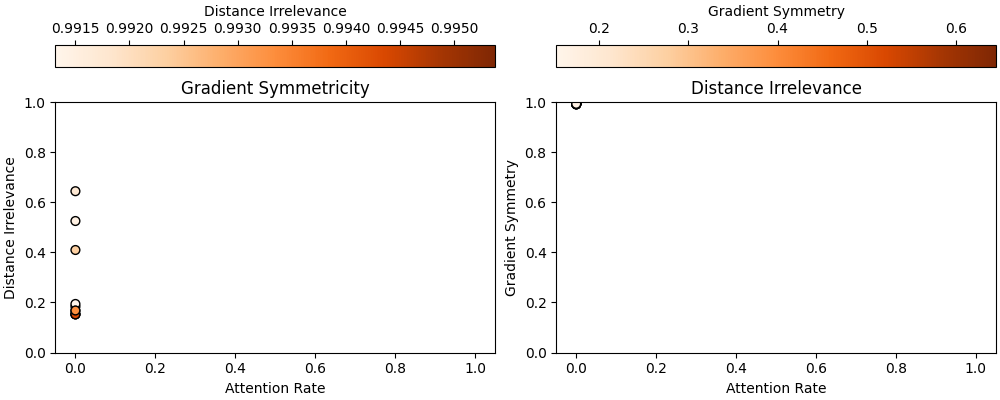
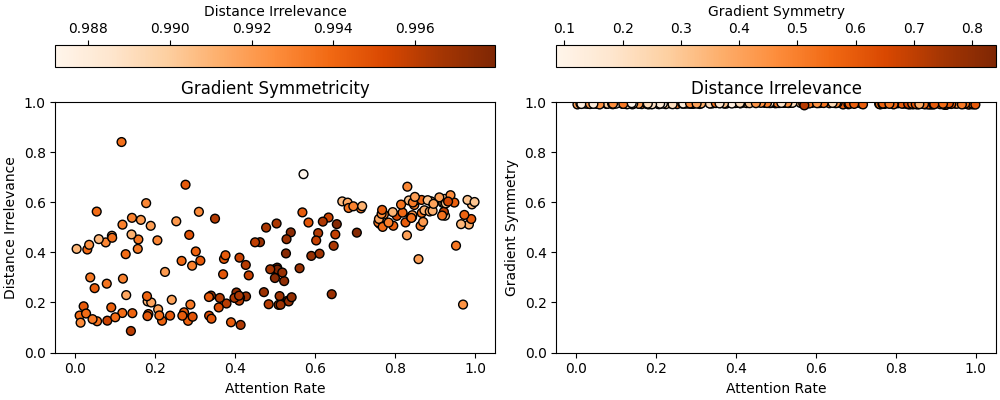
varying attention rate test.

diff --git a/analysis/plot_signal_spectrum.py b/analysis/plot_signal_spectrum.py
@@ -164,84 +164,84 @@ def plot_spectrum(model_type, embedding_type, data_path, save_path):
     plt.show()
     return True
 
-# def plot_spectrum(embedding, data_path, save_path):
+def final_embedding_spectrum(embedding, save_path, circle_freqs=None):
 
-#     spectrums = np.fft.fft(embedding, axis=0)
-#     signals = np.linalg.norm(spectrums, axis=1)
-#     sorted_freq = np.argsort(signals)[::-1]
-#     threshold = np.mean(signals) * 2 
-#     num_circles = (signals > threshold).sum() // 2
-#     cur_freqs = [min(sorted_freq[i * 2], sorted_freq[i * 2 + 1]) for i in range(num_circles)]
+    spectrums = np.fft.fft(embedding, axis=0)
+    signals = np.linalg.norm(spectrums, axis=1)
+    sorted_freq = np.argsort(signals)[::-1]
+    threshold = np.mean(signals) * 2 
+    num_circles = (signals > threshold).sum() // 2
+    cur_freqs = [min(sorted_freq[i * 2], sorted_freq[i * 2 + 1]) for i in range(num_circles)]
 
-#     circle_freqs = list(zip(cur_freqs, signals[cur_freqs]))
-#     num_circles = len(circle_freqs)
-#     assert num_circles > 0, "No circle frequencies found"
-#     circle_freqs_i = list(zip(*circle_freqs))[0]
+    circle_freqs = list(zip(cur_freqs, signals[cur_freqs]))
+    num_circles = len(circle_freqs)
+    assert num_circles > 0, "No circle frequencies found"
+    circle_freqs_i = list(zip(*circle_freqs))[0]
 
-#     # %%
-#     signals_df = pd.DataFrame(signals[:, 1:30], columns=[f'k={i}' for i in range(1, 30)])
-#     circle_df = signals_df[[f'k={i}' for i in circle_freqs_i]]
-#     noncircle_df = signals_df[[f'k={i}' for i in range(1, 30) if not i in circle_freqs_i]]
+    # %%
+    signals_df = pd.DataFrame(signals[:, 1:30], columns=[f'k={i}' for i in range(1, 30)])
+    circle_df = signals_df[[f'k={i}' for i in circle_freqs_i]]
+    noncircle_df = signals_df[[f'k={i}' for i in range(1, 30) if not i in circle_freqs_i]]
 
-#     circle_df.head()
+    circle_df.head()
 
-#     #%%
-#     fig, axes = plt.subplots(1, num_circles, figsize=(4.5*num_circles, 4), dpi=300)
+    #%%
+    fig, axes = plt.subplots(1, num_circles, figsize=(4.5*num_circles, 4), dpi=300)
 
 
-#     # do PCA
-#     from sklearn.decomposition import PCA
-#     pca = PCA(n_components=2*num_circles)
-#     pca.fit(embedding)
-#     components = pca.components_
+    # do PCA
+    from sklearn.decomposition import PCA
+    pca = PCA(n_components=2*num_circles)
+    pca.fit(embedding)
+    components = pca.components_
 
-#     print(pca.singular_values_)
+    print(pca.singular_values_)
 
-#     for i in range(num_circles):
-#         x = components[i * 2]
-#         y = components[i * 2 + 1]
-#         x /= np.linalg.norm(x)
-#         y /= np.linalg.norm(y)
-#         embed = np.stack([embedding @ x, embedding @ y, np.arange(59)],axis=0)
+    for i in range(num_circles):
+        x = components[i * 2]
+        y = components[i * 2 + 1]
+        x /= np.linalg.norm(x)
+        y /= np.linalg.norm(y)
+        embed = np.stack([embedding @ x, embedding @ y, np.arange(59)],axis=0)
 
-#         embed_df = pd.DataFrame(embed.T, columns=['x', 'y', 'id'])
-#         axes[i] = sns.scatterplot(x='x', y='y', hue='id', data=embed_df, ax=axes[i], palette="viridis", legend=False)
-#         for j in range(59):
-#             axes[i].text(embed[0, j], embed[1, j], str(int(embed[2, j])), size=9)
-#         axes[i].set(xlabel=None)
-#         axes[i].set(ylabel=None)
-#         axes[i].text(-0.5, 0, r"k = {}, $\Delta$ = {:.3f}".format(circle_freqs[i][0], circle_freqs[i][1]), fontsize=14)
-#         format_subplot(axes[i])
+        embed_df = pd.DataFrame(embed.T, columns=['x', 'y', 'id'])
+        axes[i] = sns.scatterplot(x='x', y='y', hue='id', data=embed_df, ax=axes[i], palette="viridis", legend=False)
+        for j in range(59):
+            axes[i].text(embed[0, j], embed[1, j], str(int(embed[2, j])), size=9)
+        axes[i].set(xlabel=None)
+        axes[i].set(ylabel=None)
+        axes[i].text(-0.5, 0, r"k = {}, $\Delta$ = {:.3f}".format(circle_freqs[i][0], circle_freqs[i][1]), fontsize=14)
+        format_subplot(axes[i])
 
-#     fig.suptitle("Embeddings of Frequencies on PCA Planes", fontsize=20)
-#     plt.savefig(os.path.join(save_path, "pca_embedding.png"))
-#     plt.show()
+    fig.suptitle("Embeddings of Frequencies on PCA Planes", fontsize=20)
+    plt.savefig(os.path.join(save_path, "pca_embedding.png"))
+    plt.show()
 
-#     # %%
-#     fig, axes = plt.subplots(1, num_circles, figsize=(4.5*num_circles, 4), dpi=300)
+    # %%
+    fig, axes = plt.subplots(1, num_circles, figsize=(4.5*num_circles, 4), dpi=300)
 
-#     for i, (freq, sig) in enumerate(circle_freqs):
-#         real = spectrums[-1, freq].real
-#         imag = spectrums[-1, freq].imag
-#         real /= np.linalg.norm(real)
-#         imag /= np.linalg.norm(imag)
-#         embed = np.stack([embedding @ real, embedding @ imag, np.arange(59)],axis=0)
+    for i, (freq, sig) in enumerate(circle_freqs):
+        real = spectrums[-1, freq].real
+        imag = spectrums[-1, freq].imag
+        real /= np.linalg.norm(real)
+        imag /= np.linalg.norm(imag)
+        embed = np.stack([embedding @ real, embedding @ imag, np.arange(59)],axis=0)
         
-#         embed_df = pd.DataFrame(embed.T, columns=['x', 'y', 'id'])
-#         axes[i] = sns.scatterplot(x='x', y='y', hue='id', data=embed_df, ax=axes[i], palette="viridis", legend=False)
-#         for j in range(59):
-#             axes[i].text(embed[0, j], embed[1, j], str(int(embed[2, j])), size=9)
-#         axes[i].set(xlabel=None)
-#         axes[i].set(ylabel=None)
-#         axes[i].text(-0.5, 0, r"k = {}, $\Delta$ = {:.3f}".format(freq, sig), fontsize=14)
-#         format_subplot(axes[i])
+        embed_df = pd.DataFrame(embed.T, columns=['x', 'y', 'id'])
+        axes[i] = sns.scatterplot(x='x', y='y', hue='id', data=embed_df, ax=axes[i], palette="viridis", legend=False)
+        for j in range(59):
+            axes[i].text(embed[0, j], embed[1, j], str(int(embed[2, j])), size=9)
+        axes[i].set(xlabel=None)
+        axes[i].set(ylabel=None)
+        axes[i].text(-0.5, 0, r"k = {}, $\Delta$ = {:.3f}".format(freq, sig), fontsize=14)
+        format_subplot(axes[i])
 
         
-#     fig.suptitle("Embeddings of Frequencies on FFT Planes", fontsize=20)
-#     plt.savefig(os.path.join(save_path, "fft_embedding.png"))
-#     plt.show()
+    fig.suptitle("Embeddings of Frequencies on FFT Planes", fontsize=20)
+    plt.savefig(os.path.join(save_path, "fft_embedding.png"))
+    plt.show()
 
-#     return True
+    return True
 
 for model_type in model_types:
     for embedding_type in embedding_types:

diff --git a/code/train-main.py b/code/train-main.py
@@ -543,19 +543,19 @@ import random
 import string
 import seaborn as sns
 
-for count in range(5,10):
-    count+=1
+for count in range(100):
     # for use_linear in [False]: # false model B, true model A
     letters_and_numbers = string.ascii_lowercase + string.digits.replace('0', '')
     #run_name = 'A_repr_'.join(random.choices(letters_and_numbers, k=10))
-    run_name = 'A_repr_trans_'+str(count)
+    # run_name = 'A_repr_trans_'+str(count+1)
+    attn_coeff=random.uniform(0,1)
+    run_name = f"B_{attn_coeff:.6f}"
     print(run_name)
     C=59
     n_layers=1
     # if random.randint(0,3):
     #     n_layers=random.randint(1,4)
-    frac_coeff=0.8
-    # frac_coeff=random.uniform(0,1)
+    # frac_coeff=0.8
     diff_vocab=0
     eqn_sign=0
     # if random.randint(0,4)==0:
@@ -582,7 +582,7 @@ for count in range(5,10):
         frac=0.8,
         # should adjust the attn_coeff
         # attn_coeff=frac_coeff,
-        attn_coeff=0,
+        attn_coeff=attn_coeff,
         runid=run_name,
         diff_vocab=diff_vocab,
         eqn_sign=eqn_sign,
@@ -644,12 +644,12 @@ for count in range(5,10):
     run.summary['mean_std_row']=np.mean(sx)
     run.summary['std_mean_col']=np.std(ss)
     run.summary['med_std_row']=np.median(sx)
-    model_name=os.path.join(root_path, f'code/save/model_{run_name}.pt')
+    model_name=os.path.join(root_path, f'code/save/model_{"B" if config["attn_coeff"] else "A"}/model_{run_name}.pt')
     model=result_modadd['model']
     torch.save(model.state_dict(), model_name)
     import json
     config['func']=None
-    with open(os.path.join(root_path, f'code/save/config_{run_name}.json'),'w') as f:
+    with open(os.path.join(root_path, f'code/save/model_{"B" if config["attn_coeff"] else "A"}/config_{run_name}.json'),'w') as f:
         json.dump(config,f,separators=(',\n', ': '))
     run.finish()
 

diff --git a/analysis/utils.py b/analysis/utils.py
@@ -39,9 +39,8 @@ def extract_embeddings(model):
     res = {name[i]: res[i] for i in range(len(res)) if res[i] is not None}
     return res
 
-def get_final_circle_freqs(embeddings, all_epoches=False):
-    if all_epoches:
-        embedding = embeddings[-1]
+def get_final_circle_freqs(embeddings):
+    embedding = embeddings[-1]
     spectrum = np.fft.fft(embedding, axis=0)
     signal = np.linalg.norm(spectrum, axis=1)
     sorted_freq = np.argsort(signal)[::-1]
